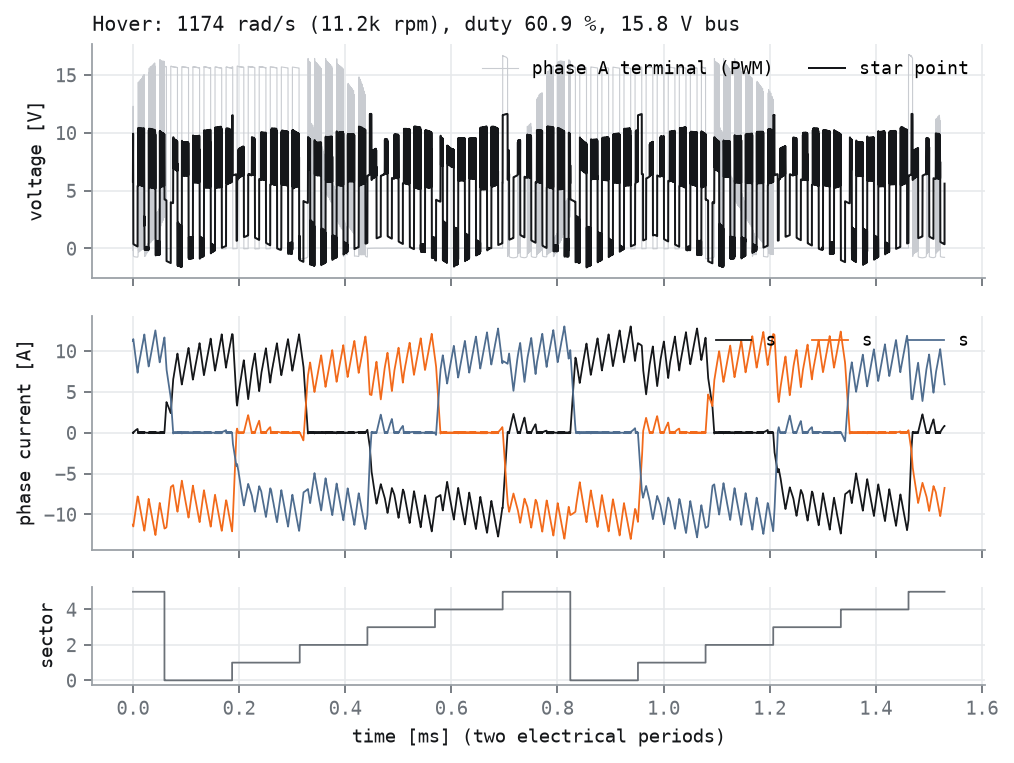
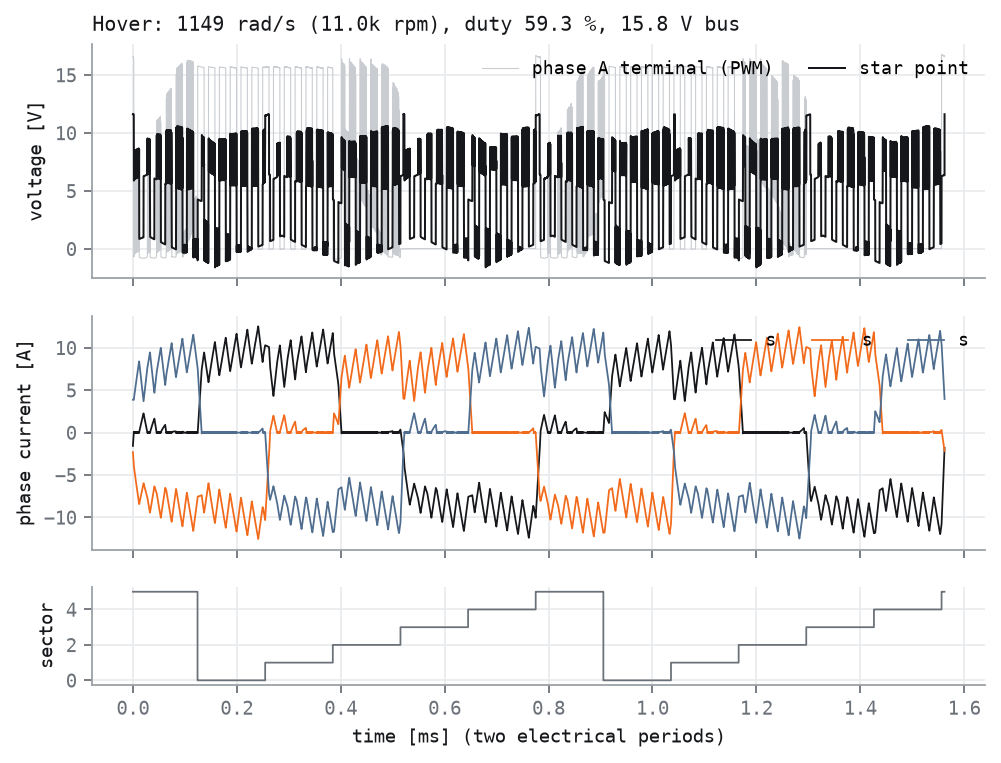
Refit the power model for the 1.40 kg build
Prop guards, mocap posts and the large depth camera are gone; SPICE re-run at the new hover point.

diff --git a/electronics/notebook.html b/electronics/notebook.html
@@ -80,21 +80,21 @@ pre{margin:0;background:var(--paper);border:1px solid var(--hair);border-radius:
   <div class="tbl"><table>
     <thead><tr><th>Quantity</th><th>Flight model</th><th>SPICE</th><th>Result</th></tr></thead>
     <tbody>
-      <tr><td>ESC duty at hover (11.2k rpm, 15.8 V)</td><td class="n">56.8 <span class="u">%</span></td><td class="n">60.9 <span class="u">%</span></td><td><span class="verdict v-fix">corrected</span></td></tr>
-      <tr><td>Bus current per ESC at hover</td><td class="n">5.10 <span class="u">A</span></td><td class="n">5.15 <span class="u">A</span></td><td><span class="verdict v-ok">agrees</span></td></tr>
-      <tr><td>ESC + motor-copper efficiency at hover</td><td class="n">94.1 <span class="u">%</span></td><td class="n">94.3 <span class="u">%</span></td><td><span class="verdict v-ok">agrees</span></td></tr>
-      <tr><td>Pack current at hover, all loads</td><td class="n">21.9 <span class="u">A</span></td><td class="n">21.6 <span class="u">A</span></td><td><span class="verdict v-ok">agrees</span></td></tr>
-      <tr><td>Bus minimum, 20 % pack, 176 A surge</td><td class="n">11.59 <span class="u">V</span></td><td class="n">11.19 <span class="u">V</span></td><td><span class="verdict v-ok">agrees</span></td></tr>
-      <tr><td>Effective motor resistance at hover speed</td><td class="n">40 <span class="u">mΩ</span></td><td class="n">144 <span class="u">mΩ</span></td><td><span class="verdict v-fix">corrected</span></td></tr>
-      <tr><td>Max thrust per rotor, full duty, 15.5 V</td><td class="n">10.23 <span class="u">N</span></td><td class="n">7.62 <span class="u">N</span></td><td><span class="verdict v-fix">corrected</span></td></tr>
+      <tr><td>ESC duty at hover (11.0k rpm, 15.8 V)</td><td class="n">55.6 <span class="u">%</span></td><td class="n">59.3 <span class="u">%</span></td><td><span class="verdict v-fix">corrected</span></td></tr>
+      <tr><td>Bus current per ESC at hover</td><td class="n">4.81 <span class="u">A</span></td><td class="n">4.85 <span class="u">A</span></td><td><span class="verdict v-ok">agrees</span></td></tr>
+      <tr><td>ESC + motor-copper efficiency at hover</td><td class="n">94.2 <span class="u">%</span></td><td class="n">94.4 <span class="u">%</span></td><td><span class="verdict v-ok">agrees</span></td></tr>
+      <tr><td>Pack current at hover, all loads</td><td class="n">20.8 <span class="u">A</span></td><td class="n">20.5 <span class="u">A</span></td><td><span class="verdict v-ok">agrees</span></td></tr>
+      <tr><td>Bus minimum, 20 % pack, 176 A surge</td><td class="n">11.59 <span class="u">V</span></td><td class="n">11.20 <span class="u">V</span></td><td><span class="verdict v-ok">agrees</span></td></tr>
+      <tr><td>Effective motor resistance at hover speed</td><td class="n">40 <span class="u">mΩ</span></td><td class="n">145 <span class="u">mΩ</span></td><td><span class="verdict v-fix">corrected</span></td></tr>
+      <tr><td>Max thrust per rotor, full duty, 15.5 V</td><td class="n">10.23 <span class="u">N</span></td><td class="n">7.52 <span class="u">N</span></td><td><span class="verdict v-fix">corrected</span></td></tr>
       <tr><td>Pack voltage where the 12 V rail starts to drop</td><td class="n">12.80 <span class="u">V</span></td><td class="n">12.32 <span class="u">V</span></td><td><span class="verdict v-fix">corrected</span></td></tr>
       <tr><td>Pack voltage where the computer browns out (rail &lt; 11.0 V)</td><td class="n">11.80 <span class="u">V</span></td><td class="n">11.77 <span class="u">V</span></td><td><span class="verdict v-fix">corrected</span></td></tr>
-      <tr><td>Bus ripple at hover, bulk capacitor removed</td><td class="n">not modelled</td><td class="n">276 <span class="u">mV pk-pk</span></td><td><span class="verdict v-new">new insight</span></td></tr>
+      <tr><td>Bus ripple at hover, bulk capacitor removed</td><td class="n">not modelled</td><td class="n">237 <span class="u">mV pk-pk</span></td><td><span class="verdict v-new">new insight</span></td></tr>
     </tbody>
   </table></div>
   <div class="fb">
     <h3>Fed back into SlipStream</h3>
-    <p><b>Motor.</b> The flight model drove each motor as a plain 60 mΩ resistance against back-EMF. In the switching simulation, commutation and winding inductance make the motor behave like a larger resistance that grows with speed. Fitted over three speeds it is <code>R_eff = 44 mΩ + 85.6 µΩ·s × ω</code>, with an effective back-EMF constant of <code>7.10 mV·s/rad</code> at 15° timing advance. The flight model now uses that, which lowers the top-end thrust of each rotor from 10.23 N to 7.62 N.</p>
+    <p><b>Motor.</b> The flight model drove each motor as a plain 60 mΩ resistance against back-EMF. In the switching simulation, commutation and winding inductance make the motor behave like a larger resistance that grows with speed. Fitted over three speeds it is <code>R_eff = 31 mΩ + 99.4 µΩ·s × ω</code>, with an effective back-EMF constant of <code>7.07 mV·s/rad</code> at 15° timing advance. The flight model now uses that, which lowers the top-end thrust of each rotor from 10.23 N to 7.52 N.</p>
     <p><b>12 V rail.</b> The flight model treated the regulator as a fixed 0.8 V dropout, so it predicted brownout at 11.8 V. The switching simulation shows the 95 % maximum duty and the converter's own losses set the limit instead. The rail model is now that ceiling minus a loss term fitted to the SPICE brownout point, <code>v12 = min(12, 0.95·Vbus − 0.18 V)</code>. The fixed-dropout guess of 11.8 V turns out close; the larger change is that the rail starts sagging at 12.32 V rather than 12.8 V.</p>
   </div>
 </section>
@@ -105,29 +105,29 @@ pre{margin:0;background:var(--paper);border:1px solid var(--hair);border-radius:
   <figure><img src="plots/bus_surge.png" alt="Bus voltage and pack current through a hover-to-surge transient for a full pack, a 20 % pack, and a 20 % pack without the bulk capacitor"><figcaption>All four ESCs ramp from hover to their 45 A phase-current limit between 1.0 and 1.6 ms.</figcaption></figure>
   <figure><img src="plots/bus_ripple.png" alt="Bus voltage ripple at hover with and without the bulk capacitor"><figcaption>Hover, 20 % pack: ripple with the 1000 µF bulk capacitor fitted and with it removed.</figcaption></figure>
   <ul class="find">
-    <li><b>The surge pulls 176 A from the pack.</b> On a 20 % pack the bus bottoms out at 11.19 V and settles near 11.31 V. A full pack holds 12.83 V. The flight model's resistive estimate (11.59 V) is close, because the pack's ohmic resistance dominates.</li>
+    <li><b>The surge pulls 176 A from the pack.</b> On a 20 % pack the bus bottoms out at 11.20 V and settles near 11.32 V. A full pack holds 12.84 V. The flight model's resistive estimate (11.59 V) is close, because the pack's ohmic resistance dominates.</li>
     <li><b>On a 20 % pack that surge would reset the companion computer.</b> The bus falls below the 11.77 V where the 12 V rail drops out (see the buck section). This is why the autopilot climbs at a limited rate and uses a gentler knife-edge pop-up instead of driving all four ESCs into current limit.</li>
-    <li><b>The bulk capacitor matters for ripple, not for the surge minimum.</b> Removing it raises the hover ripple from 161 to 276 mV pk-pk, while the surge minimum only moves to 10.94 V. The capacitor carries 2.8 A rms at hover and 7.8 A rms at full current, which sets its ripple-current rating.</li>
+    <li><b>The bulk capacitor matters for ripple, not for the surge minimum.</b> Removing it raises the hover ripple from 150 to 237 mV pk-pk, while the surge minimum only moves to 10.94 V. The capacitor carries 2.4 A rms at hover and 7.8 A rms at full current, which sets its ripple-current rating.</li>
   </ul>
 </section>
 
 <section>
   <div class="sec-head"><h2>ESC power stage and motor</h2><span class="file">esc_bldc.cir</span></div>
   <figure class="sch"><div id="s2"></div><figcaption>Three MOSFET half-bridges (3 mΩ on-resistance plus body diodes) with six-step commutation, complementary 48 kHz PWM and 15° timing advance, driving a star-connected BLDC: 30 mΩ and 12 µH per phase and a trapezoidal back-EMF of K<sub>e</sub>·ω/2 per phase. Rotor speed is held fixed so the electrical steady state can be measured directly.</figcaption></figure>
-  <figure><img src="plots/esc_sweep.png" alt="Shaft power versus ESC duty at hover speed"><figcaption>Shaft power versus duty at 1174 rad/s. The hover set-point is where it meets the propeller load from the flight model (75.9 W).</figcaption></figure>
+  <figure><img src="plots/esc_sweep.png" alt="Shaft power versus ESC duty at hover speed"><figcaption>Shaft power versus duty at 1149 rad/s. The hover set-point is where it meets the propeller load from the flight model (71.6 W).</figcaption></figure>
   <div class="two">
     <figure><img src="plots/esc_hover.png" alt="Hover phase voltage and three phase currents over two electrical periods"><figcaption>Hover: phase A terminal voltage, star point and the three phase currents.</figcaption></figure>
-    <figure><img src="plots/esc_pop.png" alt="High-load phase voltage and currents during the knife-edge pop-up"><figcaption>Knife-edge pop-up: 13.7k rpm, 98 % duty on a sagged 14.2 V bus.</figcaption></figure>
+    <figure><img src="plots/esc_pop.png" alt="High-load phase voltage and currents during the knife-edge pop-up"><figcaption>Knife-edge pop-up: 13.4k rpm, 98 % duty on a sagged 14.2 V bus.</figcaption></figure>
   </div>
   <ul class="find">
-    <li><b>Bus current at hover matches; the duty needed does not.</b> SPICE draws 5.15 A from the bus against the model's 5.10 A, but needs 60.9 % duty where the model expected 56.8 %. Without timing advance the gap is far larger: at 11.2k rpm little voltage is left after back-EMF, and the winding inductance cannot build current within one commutation step.</li>
+    <li><b>Bus current at hover matches; the duty needed does not.</b> SPICE draws 4.85 A from the bus against the model's 4.81 A, but needs 59.3 % duty where the model expected 55.6 %. Without timing advance the gap is far larger: at 11.0k rpm little voltage is left after back-EMF, and the winding inductance cannot build current within one commutation step.</li>
     <li><b>Duty is a steep control input.</b> Back-EMF cancels most of the applied voltage, so one percent of duty moves shaft power by roughly ten watts. That is why the flight controller needs rotor-speed feedback and battery-voltage compensation.</li>
-    <li><b>Ripple is large.</b> Each phase carries 7.53 A rms at hover with 25.37 A pk-pk ripple at 48 kHz, so motor iron and copper see far more than the average current suggests.</li>
-    <li><b>The knife-edge pop-up is right at the limit.</b> It needs about 134 W per rotor at 13.7k rpm. At 98 % duty on a sagged 14.2 V bus one ESC delivers 239 W (19.1 A from the bus, 88.1 % efficient), so the manoeuvre only works while the pack can hold its voltage.</li>
+    <li><b>Ripple is large.</b> Each phase carries 7.07 A rms at hover with 24.24 A pk-pk ripple at 48 kHz, so motor iron and copper see far more than the average current suggests.</li>
+    <li><b>The knife-edge pop-up is right at the limit.</b> It needs about 126 W per rotor at 13.4k rpm. At 98 % duty on a sagged 14.2 V bus one ESC delivers 254 W (20.5 A from the bus, 87.1 % efficient), so the manoeuvre only works while the pack can hold its voltage.</li>
   </ul>
   <div class="tbl"><table>
     <thead><tr><th>Rotor speed [rad/s]</th><th>[rpm]</th><th>R_eff [mΩ]</th><th>Ke_eff [mV·s/rad]</th></tr></thead>
-    <tbody><tr><td class="n">763</td><td class="n">7.3k</td><td class="n">110</td><td class="n">7.11</td></tr><tr><td class="n">1174</td><td class="n">11.2k</td><td class="n">141</td><td class="n">7.13</td></tr><tr><td class="n">1467</td><td class="n">14.0k</td><td class="n">171</td><td class="n">7.08</td></tr></tbody>
+    <tbody><tr><td class="n">747</td><td class="n">7.1k</td><td class="n">107</td><td class="n">7.13</td></tr><tr><td class="n">1149</td><td class="n">11.0k</td><td class="n">140</td><td class="n">7.10</td></tr><tr><td class="n">1436</td><td class="n">13.7k</td><td class="n">176</td><td class="n">6.97</td></tr></tbody>
   </table></div>
 </section>
 
